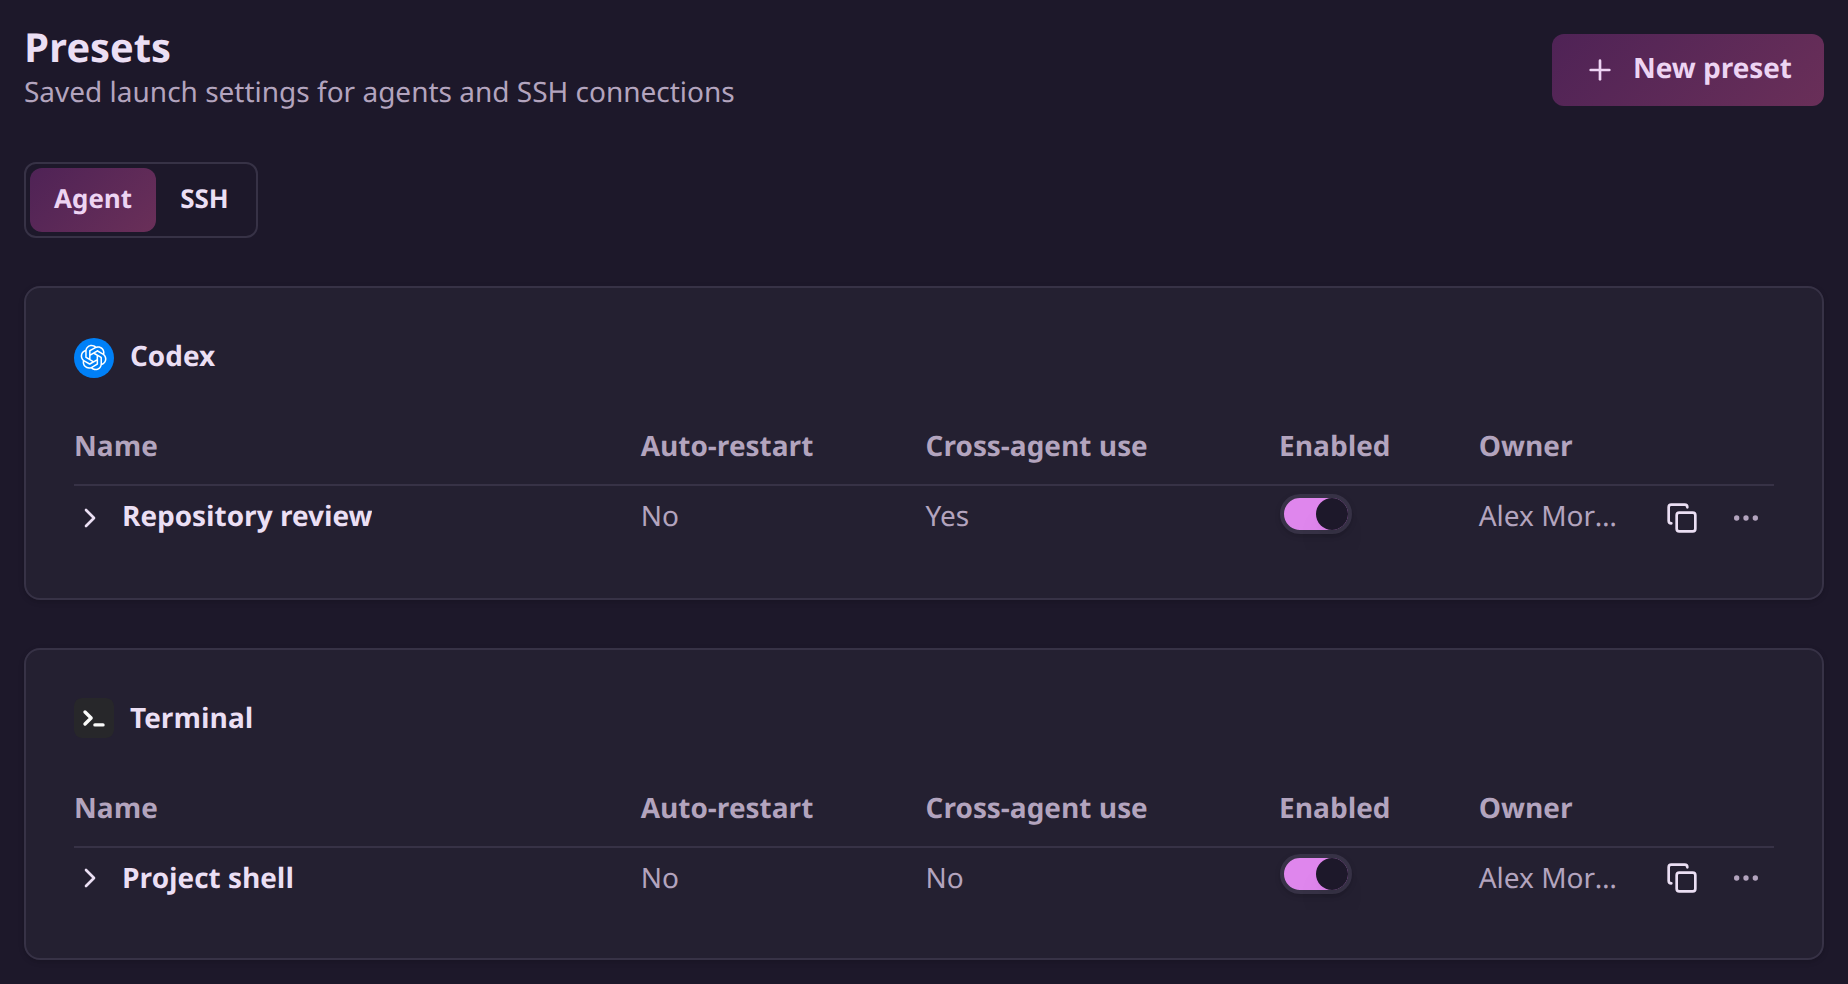
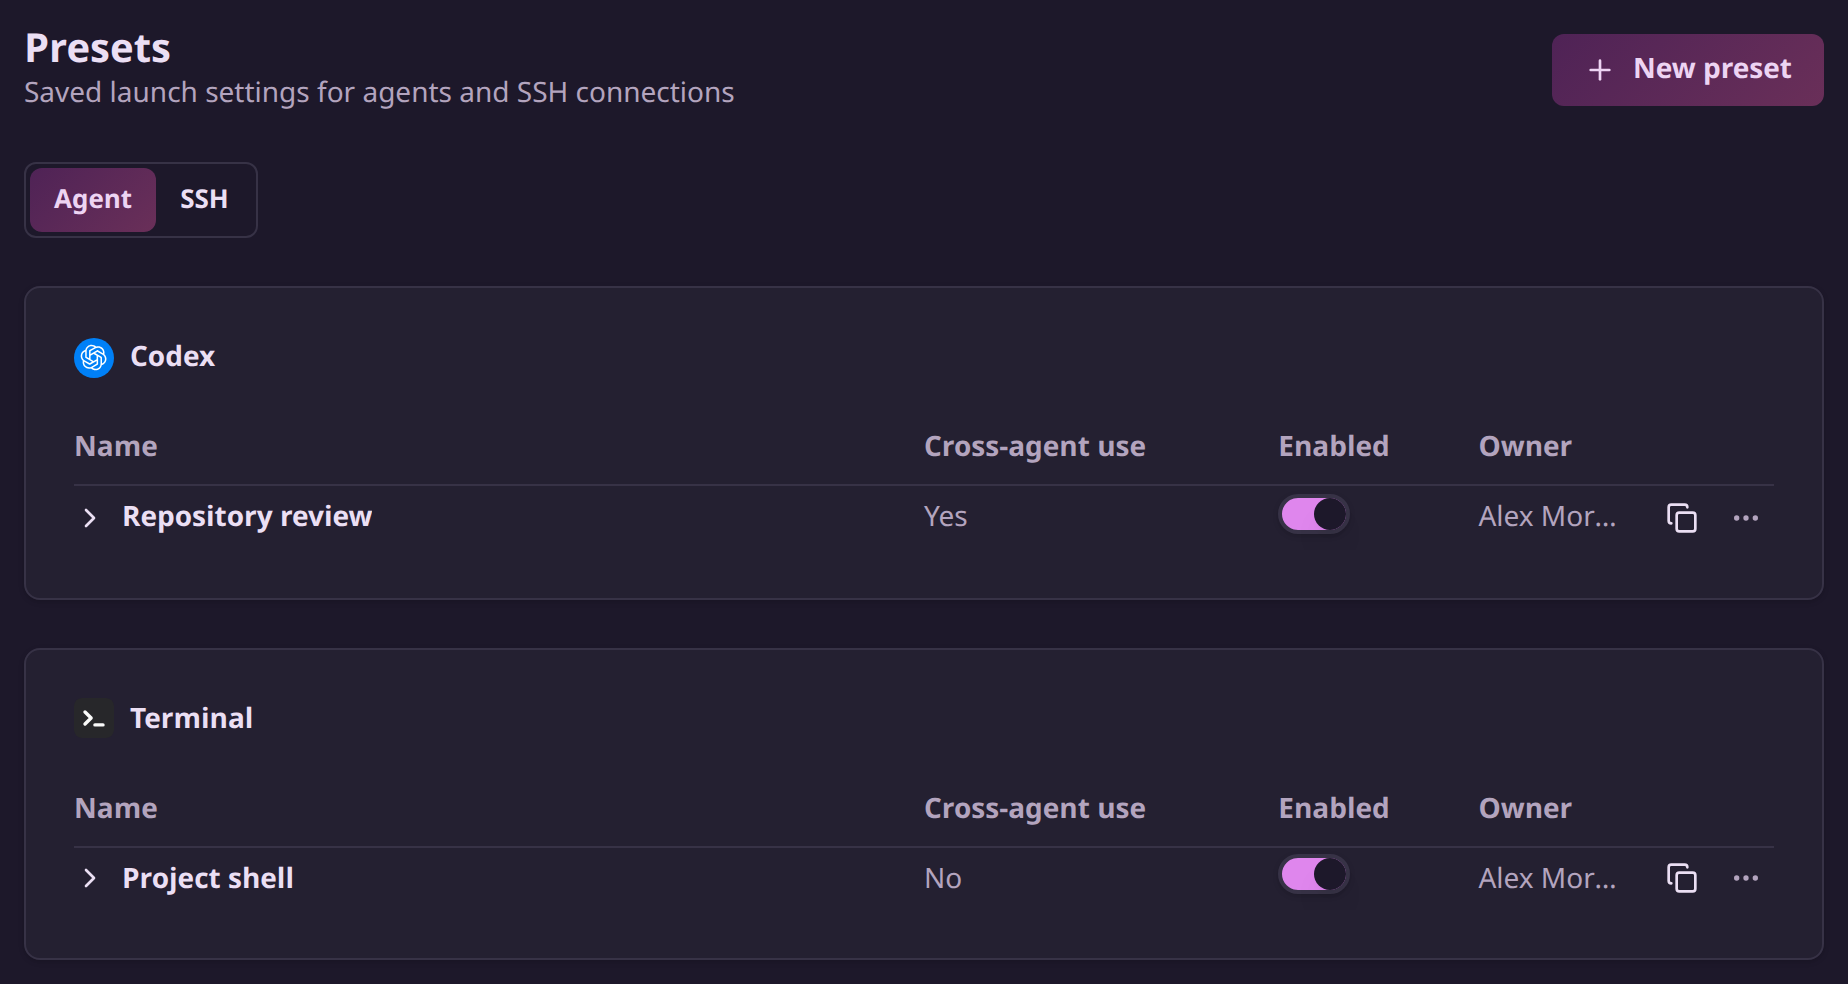
fix(presets): drop the auto-restart column to give names room (#517)
The column spent width on a value the preset page already shows, and preset titles truncated in the list. Removing it lets the name column take half the table; auto-restart stays visible and editable on the preset's own page. The page and row tests follow the new column indexes, the design-system rule records the half-width case, and the docs and website screenshots are recaptured.

diff --git a/apps/server/web/src/components/presets/preset-table-row.tsx b/apps/server/web/src/components/presets/preset-table-row.tsx
@@ -11,9 +11,11 @@ import { canEditPreset, ownsPreset } from "@/lib/preset-access";
 import type { PresetRow } from "@/types/preset";
 
 /**
- * One preset in its agent's table: name, auto-restart, cross-agent use, enabled, and actions. The optional
- * command detail spans the columns and wraps without truncation; copying
- * still hands over the exact single-line form for pasting into a shell.
+ * One preset in its agent's table: name, cross-agent use, enabled, and actions.
+ * Auto-restart lives on the preset page instead of a column, which is what
+ * leaves the name room to show a full title. The optional command detail spans
+ * the columns and wraps without truncation; copying still hands over the exact
+ * single-line form for pasting into a shell.
  *
  * **The command is HIDDEN until asked for** (operator's call, 2026-09-18).
  * A preset's env vars are where API keys and base URLs live, and this page
@@ -41,7 +43,7 @@ export function PresetTableRow({ preset, binary, items }: { preset: PresetRow; b
       would leave no way back in. The preview and the row menu are NOT gated,
       so a parked preset can still be inspected, exported, or re-enabled. */}
       <tr className={cn("border-b align-middle last:border-0", disabled && "opacity-70")}>
-        <td className="h-8 @sm:w-1/3 w-full max-w-0 py-0 pr-4">
+        <td className="h-8 @sm:w-1/2 w-full max-w-0 py-0 pr-4">
           <button
             type="button"
             title={preset.name}
@@ -58,9 +60,6 @@ export function PresetTableRow({ preset, binary, items }: { preset: PresetRow; b
               Shared by {preset.ownerName ?? preset.userId} · {preset.access === "view" ? "View" : "Edit"}
             </p>
           )}
-        </td>
-        <td className="@sm:table-cell hidden h-8 whitespace-nowrap py-0 pr-4 text-muted-foreground">
-          {preset.restartOnExit === 1 ? "Yes" : "No"}
         </td>
         {/* Readiness uses the same opt-in, node, and directory checks as list_presets. */}
         <td className="@lg:table-cell hidden h-8 whitespace-nowrap py-0 pr-4 text-muted-foreground">
@@ -92,7 +91,7 @@ export function PresetTableRow({ preset, binary, items }: { preset: PresetRow; b
           while the row claims it is hidden. */}
       {shown && (
         <tr className="border-b last:border-0">
-          <td colSpan={6} className="max-w-0 bg-muted/40 px-4 py-2">
+          <td colSpan={5} className="max-w-0 bg-muted/40 px-4 py-2">
             <pre id={commandId} className="whitespace-pre-wrap break-words font-mono text-sm leading-relaxed">
               {command}
             </pre>

diff --git a/apps/server/web/src/routes/__tests__/presets-page.test.tsx b/apps/server/web/src/routes/__tests__/presets-page.test.tsx
@@ -296,7 +296,7 @@ describe("cross-agent use column (spec 2026-09-29 preset-launch-fields)", () => 
     try {
       renderPage();
       await screen.findByText("Everywhere");
-      expect(screen.getByRole("columnheader", { name: "Auto-restart" })).toBeDefined();
+      expect(screen.queryByRole("columnheader", { name: "Auto-restart" })).toBeNull();
       expect(screen.getByRole("columnheader", { name: "Cross-agent use" })).toBeDefined();
       for (const [name, ready] of [
         ["Everywhere", "Yes"],
@@ -306,7 +306,7 @@ describe("cross-agent use column (spec 2026-09-29 preset-launch-fields)", () => 
       ]) {
         const row = screen.getByRole("button", { name }).closest("tr");
         if (!row) throw new Error(`No table row for ${name}`);
-        expect(within(row).getAllByRole("cell")[2].textContent).toBe(ready);
+        expect(within(row).getAllByRole("cell")[1].textContent).toBe(ready);
       }
     } finally {
       restore();

diff --git a/apps/server/web/src/components/presets/__tests__/preset-table-row.test.tsx b/apps/server/web/src/components/presets/__tests__/preset-table-row.test.tsx
@@ -96,9 +96,16 @@ it("gives a view-only viewer a plain yes instead of a switch", () => {
   const mock = mockFetch();
   renderRow(rowPreset({ access: "view", enabled: 1 }));
   expect(screen.queryByRole("switch")).toBeNull();
-  // The Enabled cell reads "Yes"; the Auto-restart cell's "No" is a separate cell.
+  // The Enabled cell reads "Yes"; auto-restart no longer renders a cell here.
   expect(screen.getByText("Yes")).toBeTruthy();
   mock.restore();
+});
+
+it("leaves auto-restart out of the row so names get the width", () => {
+  renderRow(rowPreset({ restartOnExit: 1, enabled: 1 }));
+  // Auto-restart used to be the row's only plain "Yes"; cross-agent renders
+  // "No" and the enabled control is a switch.
+  expect(screen.queryByText("Yes")).toBeNull();
 });
 
 it("still previews the launch command for a disabled preset", () => {

diff --git a/apps/server/web/src/components/presets/agent-preset-library.tsx b/apps/server/web/src/components/presets/agent-preset-library.tsx
@@ -169,9 +169,6 @@ export function AgentPresetLibrary({
                           <th scope="col" className="pr-4 pb-2 font-strong">
                             Name
                           </th>
-                          <th scope="col" className="@sm:table-cell hidden whitespace-nowrap pr-4 pb-2 font-strong">
-                            Auto-restart
-                          </th>
                           <th scope="col" className="@lg:table-cell hidden whitespace-nowrap pr-4 pb-2 font-strong">
                             Cross-agent use
                           </th>

diff --git a/docs/design-system.md b/docs/design-system.md
@@ -179,17 +179,18 @@ progressively on small screens, and reveal it again as the card widens. Match
 every header's visibility to its cells. For users, an email can move beneath
 the name when its column is hidden; management actions must remain reachable.
 
-When metadata columns are visible, give the name roughly one third of the
-table instead of letting it consume all remaining space. Fit the actions
-column to its controls. Truncate long names and metadata rather than letting
-them push the page wider; make the complete value available through the
-appropriate detail or disclosure. Keep any necessary horizontal scrolling
-inside the card, never on the whole page.
+When metadata columns are visible, give the name the room they leave: roughly
+one third of the table, or half once a metadata column has moved to the detail
+page. Fit the actions column to its controls. Truncate long names and metadata
+rather than letting them push the page wider; make the complete value
+available through the appropriate detail or disclosure. Keep any necessary
+horizontal scrolling inside the card, never on the whole page.
 
 ### Values and interactions
 
-Give independent behaviours separate columns. Presets show Auto-restart and
-Cross-agent use separately. Boolean values, including sharing, use **Yes** or
+Give independent behaviours separate columns. The preset list shows
+Cross-agent use; auto-restart lives on the preset page. Boolean values,
+including sharing, use **Yes** or
 **No** consistently. Show plain text for provider, role, permissions, and
 routine states, following the field-value rule below; do not turn them into
 badges. Use an absence mark when a value does not apply: the server's local

diff --git a/apps/server/web/docs/launch-form-picker.md b/apps/server/web/docs/launch-form-picker.md
@@ -98,9 +98,11 @@ filled fields. There is no `+` on the row and no "None" row: a preset worth
 keeping is MADE from the whole form by the "Save as preset" checkbox at its
 bottom, and an untouched picker already IS the no-preset state. First run
 hides the Preset row entirely: a new account has zero presets, so the row
-would have nothing to offer. The saved set lives at `/presets`, with one table in a card per agent under
-real `<h2>` headers. Columns show name, auto-restart, cross-agent use, and actions; command previews
-stay hidden until the name is clicked, then expand in a full-width detail row.
+would have nothing to offer. The saved set lives at `/presets`, with one table
+in a card per agent under real `<h2>` headers. Columns show name, cross-agent
+use, enabled, and actions; auto-restart lives on the preset page. Command
+previews stay hidden until the name is clicked, then expand in a full-width
+detail row.
 The name uses the same disclosure button and chevron as prompts; editing
 belongs in the actions menu. There the row menu's **Clone preset** opens the SAME
 `create-preset-dialog.tsx`, seeded through `initialForm`: the clone IS a plain

diff --git a/.changeset/preset-table-columns.md b/.changeset/preset-table-columns.md
@@ -1,0 +1,7 @@
+---
+"@internal/server": patch
+"@internal/docs": patch
+"@internal/website": patch
+---
+
+The agent preset list no longer shows an Auto-restart column. The name column takes the freed width, so preset titles fit instead of truncating; auto-restart still appears on the preset's own page. The preset-library documentation and website screenshots were recaptured with the new columns.
